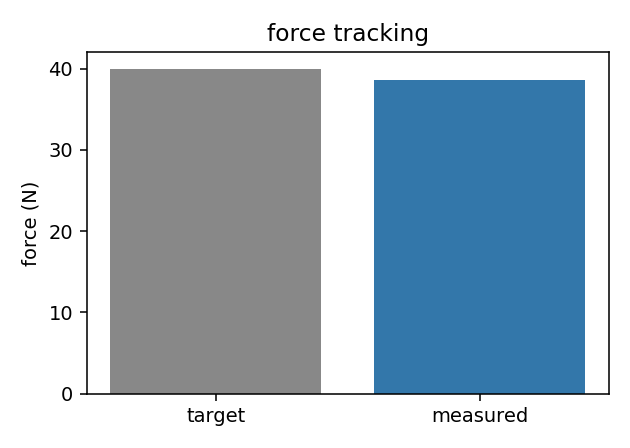
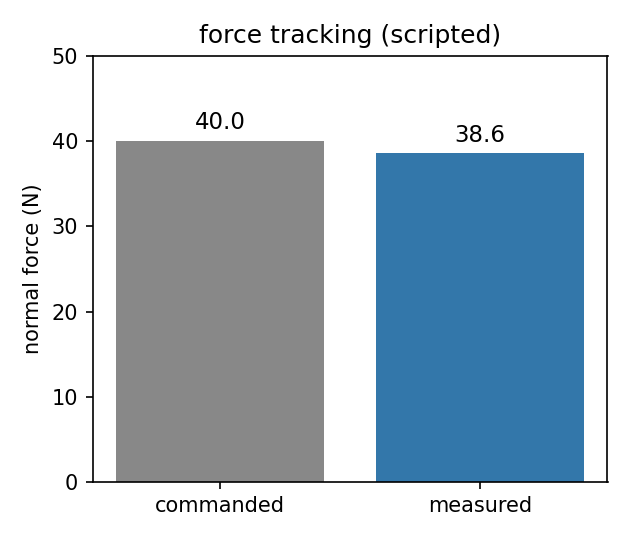
more charts for pdf

Changed region(s): [[0.0302, 0.0312, 0.9952, 0.9688]]

diff --git a/charts.py b/charts.py
@@ -25,14 +25,15 @@ def chart_closedloop():
     labels = ["op-space", "joint"]
     cov = [d["opspace"]["coverage_mean"], d["joint"]["coverage_mean"]]
     err = [d["opspace"]["coverage_std"], d["joint"]["coverage_std"]]
-    suc = [d["opspace"]["success_rate"], d["joint"]["success_rate"]]
-    f, ax = plt.subplots(1, 2, figsize=(8, 3.2))
-    ax[0].bar(labels, cov, yerr=err, capsize=6, color=["#2a7", "#a44"])
-    ax[0].set_ylabel("coverage"); ax[0].set_title("coverage")
-    ax[1].bar(labels, suc, color=["#2a7", "#a44"])
-    ax[1].set_ylabel("success"); ax[1].set_title("success")
-    f.suptitle("op-space vs joint")
-    f.tight_layout(); f.savefig(os.path.join(fig, "closedloop.png"), dpi=140)
+    f, ax = plt.subplots(figsize=(4.2, 3.6))
+    bars = ax.bar(labels, cov, yerr=err, capsize=8, color=["#2a7", "#a44"])
+    ax.set_ylabel("wiping coverage")
+    ax.set_title("op-space vs joint")
+    ax.set_ylim(0, max(c + e for c, e in zip(cov, err)) + 0.12)
+    for b, c in zip(bars, cov):
+        ax.text(b.get_x() + b.get_width() / 2, b.get_height() + 0.015,
+                f"{c:.2f}", ha="center", va="bottom", fontsize=11)
+    f.tight_layout(); f.savefig(os.path.join(fig, "closedloop.png"), dpi=150)
     print("wrote", os.path.join(fig, "closedloop.png"))
 
 
@@ -60,11 +61,16 @@ def chart_force():
     meas = d.get("mean_measured_fz", d.get("measured_fz_mean"))
     if tgt is None or meas is None:
         return
-    plt.figure(figsize=(4.5, 3.2))
-    plt.bar(["target", "measured"], [tgt, meas], color=["#888", "#37a"])
-    plt.title("force tracking")
-    plt.ylabel("force (N)"); plt.tight_layout()
-    plt.savefig(os.path.join(fig, "force_tracking.png"), dpi=140)
+    f, ax = plt.subplots(figsize=(4.2, 3.6))
+    bars = ax.bar(["commanded", "measured"], [tgt, meas], color=["#888", "#37a"])
+    ax.set_ylabel("normal force (N)")
+    ax.set_title("force tracking (scripted)")
+    ax.set_ylim(0, max(tgt, meas) * 1.25)
+    for b, v in zip(bars, [tgt, meas]):
+        ax.text(b.get_x() + b.get_width() / 2, b.get_height() + max(tgt, meas) * 0.02,
+                f"{v:.1f}", ha="center", va="bottom", fontsize=11)
+    f.tight_layout()
+    f.savefig(os.path.join(fig, "force_tracking.png"), dpi=150)
     print("wrote", os.path.join(fig, "force_tracking.png"))
 
 
